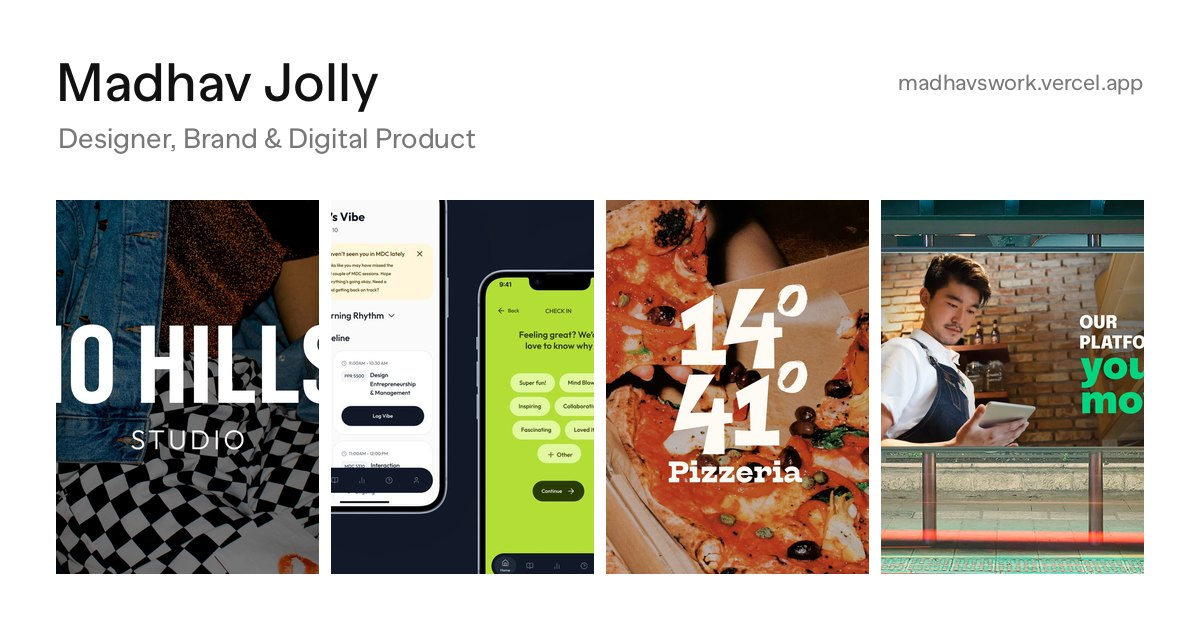
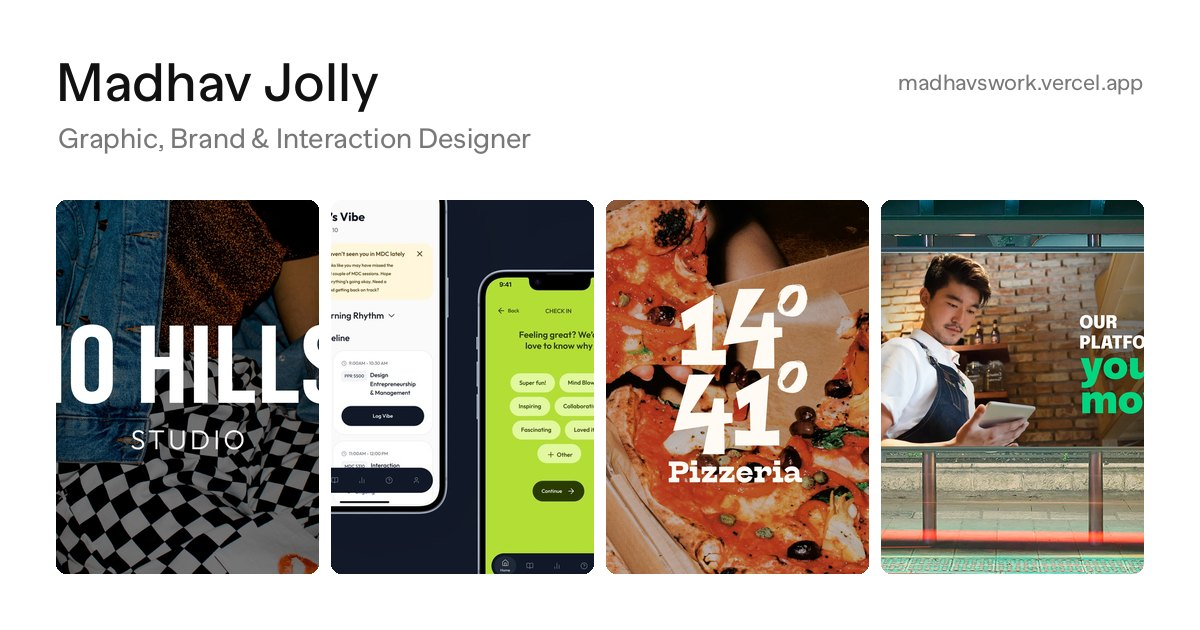
New intro and role, scope lines, honest credits, 10 Hills re-sequence
- Role: Graphic, Brand & Interaction Designer; intro says Melbourne only
- Shorter tile one-liners for 10 Hills, ClassPulse, 1441, Pine Labs
- One-line scope at the top of five case studies
- Pine Labs and Falcon credit the senior team for identity, colour, type and icons
- Brand-book copy rewritten on Rivona and 1441; 10 Hills clear-space and social text cut
- 10 Hills leads with campaign, tees and store; system slides follow
- Motion Graphics moved into Play
- Share image, page titles and description updated to the new role

Claude-Session: https://claude.ai/code/session_011t3iwqsU4Rvt9P7g58dLV8

Changed region(s): [[0.0308, 0.181, 0.4625, 0.2413]]

diff --git a/portfolio_final_3_2026.html b/portfolio_final_3_2026.html
@@ -4,21 +4,21 @@
 <meta charset="UTF-8">
 <base href="/">
 <meta name="viewport" content="width=device-width, initial-scale=1.0, viewport-fit=cover">
-<title>Madhav Jolly | Designer, Brand &amp; Digital Product</title>
-<meta name="description" content="Indian designer in Melbourne, working across brand and digital product. Identity first, then the system around it, with motion, 3D, and sound when the work needs more than a still.">
+<title>Madhav Jolly | Graphic, Brand &amp; Interaction Designer</title>
+<meta name="description" content="Graphic, brand and interaction designer in Melbourne. Identity first, then the system around it, with motion, 3D and sound when the work needs more than a still.">
 <link rel="canonical" href="https://madhavswork.vercel.app/">
 <meta property="og:type" content="website">
 <meta property="og:site_name" content="Madhav Jolly">
-<meta property="og:title" content="Madhav Jolly | Designer, Brand &amp; Digital Product">
-<meta property="og:description" content="Indian designer in Melbourne, working across brand and digital product. Identity first, then the system around it, with motion, 3D, and sound when the work needs more than a still.">
+<meta property="og:title" content="Madhav Jolly | Graphic, Brand &amp; Interaction Designer">
+<meta property="og:description" content="Graphic, brand and interaction designer in Melbourne. Identity first, then the system around it, with motion, 3D and sound when the work needs more than a still.">
 <meta property="og:url" content="https://madhavswork.vercel.app/">
 <meta property="og:image" content="https://madhavswork.vercel.app/assets/og-image.jpg">
 <meta property="og:image:width" content="1200">
 <meta property="og:image:height" content="630">
-<meta property="og:image:alt" content="Madhav Jolly, Designer, Brand and Digital Product, with selected work">
+<meta property="og:image:alt" content="Madhav Jolly, Graphic, Brand and Interaction Designer, with selected work">
 <meta name="twitter:card" content="summary_large_image">
-<meta name="twitter:title" content="Madhav Jolly | Designer, Brand &amp; Digital Product">
-<meta name="twitter:description" content="Indian designer in Melbourne, working across brand and digital product. Identity first, then the system around it, with motion, 3D, and sound when the work needs more than a still.">
+<meta name="twitter:title" content="Madhav Jolly | Graphic, Brand &amp; Interaction Designer">
+<meta name="twitter:description" content="Graphic, brand and interaction designer in Melbourne. Identity first, then the system around it, with motion, 3D and sound when the work needs more than a still.">
 <meta name="twitter:image" content="https://madhavswork.vercel.app/assets/og-image.jpg">
 <link rel="icon" href="/favicon.ico?v=2" sizes="any">
 <link rel="icon" type="image/png" sizes="32x32" href="/assets/icons/favicon-32.png?v=2">
@@ -363,6 +363,7 @@ body[data-page="project"] #page-project { display: block; }
   max-width: var(--measure);
 }
 .p-copy p:last-child { margin-bottom: 0; }
+.p-copy p.p-scope { color: var(--ink); font-weight: 500; }
 .p-meta {
   margin-top: 2px;
   font-weight: 400;
@@ -658,8 +659,8 @@ body[data-page="project"] #page-project { display: block; }
 
 <div id="page-home" class="page">
   <div class="intro">
-    <div class="role">Designer, Brand &amp; Digital Product</div>
-    <p>Designer from Mumbai → Melbourne, working across brand and digital product. Identity first, then the system around it, with motion, 3D and sound when the work needs more than a still.</p>
+    <div class="role">Graphic, Brand &amp; Interaction Designer</div>
+    <p>Based in Melbourne. Previously at The Works and Please See//, most recently an M.Des in Interaction Design at Monash.</p>
   </div>
   <div class="masonry" id="home-grid"></div>
   <a class="more" href="/all">All work</a>
@@ -787,23 +788,24 @@ body[data-page="project"] #page-project { display: block; }
 <script>
 const PROJECTS = [
   {
-    id:'pine-labs', name:'Pine Labs', tag:"India's payments giant, recut for the merchants who actually run on it.",
+    id:'pine-labs', name:'Pine Labs', tag:"India's payments giant, recut for the merchants who run on it.",
     category:'brand', sidebar:true,
     heroColor:'#0d2419', heroAccent:'#4fd89a', letter:'P',
     heroImage:'assets/projects/pine-labs/02-billboard.webp',
     thumbImage:'assets/projects/pine-labs/01-building.mp4',
     coverImage:'assets/projects/pine-labs/02-billboard.webp',
     eyebrow:'Brand Identity', title:'Pine Labs',
+    scopeLine:'Marketing, motion, emailers, print, packaging and illustrated collateral for a brand refresh. Junior designer at Please See//.',
     challenge:"Pine Labs had outgrown a look that disappeared among gradients. The job was to keep the heritage, then make it loud enough for entrepreneurs across India to recognise it as theirs, including on the POS machines that sit on counters nationwide.",
-    solution:"I was a junior on the refresh at Please See//, working on marketing, motion, emailers and packaging, and contributing to logo ideation, though the final mark isn't mine. The system had to hold at checkout, not only on a billboard.",
+    solution:"The identity, colour and icons came from the senior team. I carried the new system into everything around it, from emailers and motion to the employee welcome kit.",
     info:['See it live at <a href="https://www.pinelabs.com" target="_blank" rel="noopener">pinelabs.com</a>'],
-    credits:[{role:'Marketing, motion, emailers, packaging, logo ideation',name:'Madhav Jolly'},{role:'Agency',name:'Please See//'}],
-    year:'2022', client:'Pine Labs', agency:'Please See//', scope:'Marketing, motion, emailers, packaging, logo ideation', awards:'—',
+    credits:[{role:'Marketing, motion, emailers, print, packaging, illustrated collateral',name:'Madhav Jolly'},{role:'Agency',name:'Please See//'}],
+    year:'2022', client:'Pine Labs', agency:'Please See//', scope:'Marketing, motion, emailers, print, packaging, illustrated collateral', awards:'—',
     gallery:[
       { type:'image', src:'assets/projects/pine-labs/01-building.mp4', wide:true },
       { type:'image', src:'assets/projects/pine-labs/02-billboard.webp' },
       { type:'image', src:'assets/projects/pine-labs/03-pine-green.mp4' },
-      { type:'text', text:"I evolved the original Pine green into a high-contrast 'Pine teal', so the brand could own its heritage through a modern lens. Bolder colours and wide contrast let it stand out in a market full of gradients, while still scaling across every medium." },
+      { type:'text', text:"The refresh moved the original Pine green to a high-contrast 'Pine teal', so the brand could own its heritage through a modern lens. Bolder colours and wide contrast let it stand out in a market full of gradients, while still scaling across every medium." },
       { type:'image', src:'assets/projects/pine-labs/04-logo-grid.webp', wide:true },
       { type:'image', src:'assets/projects/pine-labs/05-subbrands.webp', wide:true, contain:true, ratio:'2800/1159' },
       { type:'text', text:'The arrow symbol acts as a container that heroes the entrepreneur and their business: always on the move, shaking things up and breaking new ground.' },
@@ -830,15 +832,16 @@ const PROJECTS = [
     ],
   },
   {
-    id:'ten-hills-studio', name:'10 Hills Studio', tag:'A Kolkata streetwear store, built to live on a cap, a window, and the street.',
+    id:'ten-hills-studio', name:'10 Hills Studio', tag:'A number and a hill, cut into one mark.',
     category:'brand', sidebar:true,
     heroColor:'#0c0c0c', heroAccent:'#f7f126', letter:'1',
     heroImage:'assets/projects/ten-hills-studio/01-hero.jpg',
     thumbImage:'assets/projects/ten-hills-studio/01-preview.jpg',
     coverImage:'assets/projects/ten-hills-studio/01-hero.jpg',
     eyebrow:'Brand Identity', title:'10 Hills Studio',
+    scopeLine:'Identity, packaging, merch, store and photography for a Kolkata streetwear shop. Freelance, solo.',
     challenge:'10 Hills was opening a sneaker and streetwear store in the middle of Kolkata. The identity had to hold a shop window, a hang tag, and a website, and still feel like a studio, not a template shop.',
-    solution:'Freelance, end to end, just me: identity, packaging, merch, store and photography. A number and a hill, cut into one mark. Black, white, grey, and a strike of yellow.',
+    solution:'A number and a hill, cut into one mark. Black, white, grey, and a strike of yellow.',
     info:[
       'See it live at <a href="https://10hillsstudio.com" target="_blank" rel="noopener">10hillsstudio.com</a>',
     ],
@@ -847,32 +850,26 @@ const PROJECTS = [
     colors:['#0c0c0c','#bec2c6','#ffffff','#f7f126','#1a1a1a','#0a0a0a'],
     labels:['Wordmark','Symbol','Type','Colour','Retail','Merch'],
     gallery:[
-      { type:'image', src:'assets/projects/ten-hills-studio/20-wordmark.jpg', wide:true, dark:true, ratio:'16/9' },
-      { type:'image', src:'assets/projects/ten-hills-studio/21-logo-lockups.jpg', wide:true, contain:true, light:true, ratio:'16/9' },
-      { type:'image', src:'assets/projects/ten-hills-studio/22-symbol-dark.jpg', wide:true, contain:true, light:true, ratio:'16/9' },
-      { type:'image', src:'assets/projects/ten-hills-studio/03-logo-bw.jpg', wide:true, ratio:'16/9' },
-      { type:'image', src:'assets/projects/ten-hills-studio/23-colour.jpg', wide:true, contain:true, light:true, ratio:'16/9' },
-      { type:'text', wide:true, text:'The mark is 10 and a hill in the same stroke. Sharp intervals in the type, a symbol that still reads at the size of a cap badge.' },
-      { type:'image', src:'assets/projects/ten-hills-studio/05-clear-space.jpg', wide:true, contain:true, light:true, ratio:'16/9' },
-      { type:'text', wide:true, text:'To keep the mark consistent, legible, and prominent, keep the area around it clear. Do not put type or objects in the clear space. Minimum preferred clear space is 1X, measured from the cap height of 10 HILLS.' },
-      { type:'image', src:'assets/projects/ten-hills-studio/07-type.jpg', wide:true, contain:true, light:true, ratio:'16/9' },
-      { type:'text', wide:true, text:'Three core fonts. Bebas Neue Bold for headlines. Baskerville, used sparingly, for subheads and accents. Source Sans for body copy, so longer text stays readable.' },
-      { type:'image', src:'assets/projects/ten-hills-studio/09-social.jpg', wide:true, contain:true, light:true, ratio:'16/9' },
-      { type:'text', wide:true, text:'Primary social icons sit in approved colours. Secondary icons can shift for seasonal campaigns and custom clothing launches.' },
-      { type:'text', wide:true, text:'The hang tag went through a few constructions. A two-sided rectangle. A die-cut triangle layered over the spec. Frosted vellum over a patterned back. A small triangle pinned to the corner. What shipped is the simplest: black wordmark on the front, collection, size, and a yellow QR on the back.' },
-      { type:'image', src:'assets/projects/ten-hills-studio/11-hangtags.jpg', wide:true, contain:true, light:true, ratio:'16/9' },
-      { type:'image', src:'assets/projects/ten-hills-studio/25-hangtags.jpg', dark:true, ratio:'4/5' },
-      { type:'image', src:'assets/projects/ten-hills-studio/15-cap.jpg', light:true, ratio:'4/5' },
-      { type:'text', wide:true, text:'Then it had to hold at arm’s length: tags, tees, a window. Same system, different distances.' },
+      { type:'image', src:'assets/projects/ten-hills-studio/19-campaign.jpg', wide:true },
       { type:'image', src:'assets/projects/ten-hills-studio/13-tee-chest.jpg', wide:true, dark:true },
       { type:'image', src:'assets/projects/ten-hills-studio/14-tee-back.jpg', wide:true },
-      { type:'image', src:'assets/projects/ten-hills-studio/19-campaign.jpg', wide:true },
-      { type:'image', src:'assets/projects/ten-hills-studio/32-campaign-green.jpg', ratio:'4/5' },
       { type:'text', wide:true, label:'Inside the store' },
       { type:'image-row', cols:2, images:[
         'assets/projects/ten-hills-studio/35-store-wall.jpg',
         'assets/projects/ten-hills-studio/36-store-floor.jpg',
       ]},
+      { type:'text', wide:true, text:'The mark is 10 and a hill in the same stroke. Sharp intervals in the type, a symbol that still reads at the size of a cap badge.' },
+      { type:'image', src:'assets/projects/ten-hills-studio/20-wordmark.jpg', wide:true, dark:true, ratio:'16/9' },
+      { type:'image', src:'assets/projects/ten-hills-studio/22-symbol-dark.jpg', wide:true, contain:true, light:true, ratio:'16/9' },
+      { type:'image', src:'assets/projects/ten-hills-studio/23-colour.jpg', wide:true, contain:true, light:true, ratio:'16/9' },
+      { type:'image', src:'assets/projects/ten-hills-studio/07-type.jpg', wide:true, contain:true, light:true, ratio:'16/9' },
+      { type:'text', wide:true, text:'Three core fonts. Bebas Neue Bold for headlines. Baskerville, used sparingly, for subheads and accents. Source Sans for body copy, so longer text stays readable.' },
+      { type:'text', wide:true, text:'The hang tag went through a few constructions. A two-sided rectangle. A die-cut triangle layered over the spec. Frosted vellum over a patterned back. A small triangle pinned to the corner. What shipped is the simplest: black wordmark on the front, collection, size, and a yellow QR on the back.' },
+      { type:'image', src:'assets/projects/ten-hills-studio/11-hangtags.jpg', wide:true, contain:true, light:true, ratio:'16/9' },
+      { type:'image', src:'assets/projects/ten-hills-studio/25-hangtags.jpg', dark:true, ratio:'4/5' },
+      { type:'image', src:'assets/projects/ten-hills-studio/15-cap.jpg', light:true, ratio:'4/5' },
+      { type:'text', wide:true, text:'Then it had to hold at arm’s length: tags, tees, a window. Same system, different distances.' },
+      { type:'image', src:'assets/projects/ten-hills-studio/32-campaign-green.jpg', ratio:'4/5' },
     ],
   },
   {
@@ -884,20 +881,21 @@ const PROJECTS = [
     coverImage:'assets/projects/falcon/00-preview.mp4',
     reelImage:'assets/projects/falcon/03-guidelines.jpg',
     eyebrow:'Brand Identity', title:'Falcon',
+    scopeLine:'Credit card, print, packaging and collateral for a fintech platform. Junior designer at Please See//.',
     challenge:"A payments platform for banks and FinTechs needed a mark as sharp as the product, not another soft gradient in a crowded category.",
-    solution:"I was a junior at Please See//, working across the system around the main logo. The credit card was the piece I owned, along with colour, icons, packaging and the pitch deck, all built around a three-dimensional F cut like a falcon's bill.",
+    solution:"The mark, colour, type and icon system came from the senior team. I applied the brand across print, packaging and collateral, and designed the credit card.",
     info:['See it live at <a href="https://www.falconfs.com" target="_blank" rel="noopener">falconfs.com</a>'],
-    credits:[{role:'Junior designer: credit card, packaging, icons, collateral',name:'Madhav Jolly'},{role:'Agency',name:'Please See//'}],
-    year:'2022', client:'Falcon', agency:'Please See//', scope:'Junior designer: credit card, packaging, icons, collateral', awards:'—',
+    credits:[{role:'Junior designer: credit card, print, packaging, collateral',name:'Madhav Jolly'},{role:'Agency',name:'Please See//'}],
+    year:'2022', client:'Falcon', agency:'Please See//', scope:'Junior designer: credit card, print, packaging, collateral', awards:'—',
     gallery:[
       { type:'text', text:"Falcon is a platform that lets FinTechs, banks, NBFCs and startups launch payment and lending products on open APIs. I worked on it at Please See// with founders Priyanka Kanwar and Prabhtej Bhatia." },
       { type:'image', src:'assets/projects/falcon/02-logo-3d.mp4' },
       { type:'image', src:'assets/projects/falcon/03-guidelines.jpg', wide:true, contain:true, light:true, ratio:'1920/1919' },
       { type:'text', text:'The colour palette was inspired by the limitless sky and the grey of a falcon\'s bill. A secondary palette complements the main brand colours, and gradients bring movement to the wider brand language.' },
       { type:'image', src:'assets/projects/falcon/04-colors.webp', wide:true, contain:true, light:true, ratio:'2800/2441' },
-      { type:'text', text:"Roobert is a monolinear geometric sans-serif. I picked it because its rounded-square forms in letters like 'g', 'a', 'r' and 't' echo the F symbol, while staying sharp and clean at the edges like the mark." },
+      { type:'text', text:"Roobert is a monolinear geometric sans-serif, chosen because its rounded-square forms in letters like 'g', 'a', 'r' and 't' echo the F symbol, while staying sharp and clean at the edges like the mark." },
       { type:'image', src:'assets/projects/falcon/05-typography.webp', wide:true, contain:true, dark:true, ratio:'2800/1313' },
-      { type:'text', text:'Icons were created by overlapping geometric shapes with sharp corners. Wherever possible, I turned the flat 2D icons into 3D product illustrations to make the language more dynamic.' },
+      { type:'text', text:'Icons are built from overlapping geometric shapes with sharp corners, and where possible turned into 3D product illustrations to make the language more dynamic.' },
       { type:'image', src:'assets/projects/falcon/06-icon-grid-spec.webp', wide:true, contain:true, dark:true, ratio:'2800/986' },
       { type:'image', src:'assets/projects/falcon/07-icon-set.webp', wide:true, contain:true, dark:true, ratio:'2800/1129' },
       { type:'image', src:'assets/projects/falcon/08-icon-anim-1.mp4', square:true, contain:true, dark:true },
@@ -956,6 +954,7 @@ const PROJECTS = [
     thumbImage:'assets/projects/class-pulse/listing-thumb.jpg',
     coverImage:'assets/projects/class-pulse/04-checkin.mp4',
     eyebrow:'UX / Product Design', title:'ClassPulse',
+    scopeLine:'Research, UX and UI for a student engagement platform. Monash M.Des team project, Higher Distinction.',
     challenge:'Student disengagement in higher education is often silent, gradual, and difficult to detect in real time. Most university systems focus on measurable outputs such as attendance, assignment submissions, and platform activity. These signals only show what students did, not how they are actually engaging with their learning.',
     solution:'ClassPulse was designed to address this visibility gap by shifting engagement from a passive set of metrics into a continuous, interpretable experience, enabling students to reflect on their own patterns while giving educators higher-level insights into how engagement changes over time.',
     info:[],
@@ -1000,13 +999,14 @@ const PROJECTS = [
     ],
   },
   {
-    id:'1441-pizzeria', name:'1441 Pizzeria', tag:'Neapolitan energy for a pizzeria that wanted to feel like the centre of the room.',
+    id:'1441-pizzeria', name:'1441 Pizzeria', tag:'Naples energy, built for a crowded counter.',
     category:'brand', sidebar:true,
     heroColor:'#02954C', heroAccent:'#FABA18', letter:'1',
     heroImage:'assets/projects/1441-pizzeria/01-hero.png',
     thumbImage:'assets/projects/1441-pizzeria/listing-thumb.jpg',
     coverImage:'assets/projects/1441-pizzeria/reel-cover.jpg',
     eyebrow:'Brand Identity', title:'1441 Pizzeria',
+    scopeLine:'Logo, storefront, pizza box, stickers and social for a Neapolitan pizzeria. At Please See//.',
     challenge:'1441 wanted to feel like the epicentre of action. Naples energy, not another polite pizza mark. The identity had to work on a box, a sticker, and a crowded counter.',
     solution:'I had a lot more autonomy here. I did the logo, the storefront type, the pizza box, social, and the system around them. Two red degree glyphs sit inside the name. Fun, loud, a little chaotic, built for a crowded counter.',
     info:['A rebrand for 1441 Pizzeria that treats Naples as an attitude, not a texture overlay.','I designed the logo, storefront, pizza box, and social, plus stickers, illustration, and the rest of the system.','See it live at <a href="https://www.1441pizzeria.com" target="_blank" rel="noopener">1441pizzeria.com</a>'],
@@ -1023,9 +1023,9 @@ const PROJECTS = [
       { type:'image', src:'assets/projects/1441-pizzeria/05-clearspace.png', wide:true, contain:true, light:true, ratio:'16/9' },
       { type:'image', src:'assets/projects/1441-pizzeria/06-colors.png', wide:true, contain:true, light:true, ratio:'16/9' },
       { type:'image', src:'assets/projects/1441-pizzeria/07-typography.png', wide:true, contain:true, light:true, ratio:'16/9' },
-      { type:'text', text:'Brangus was chosen for its bold, geometric letterforms that convey strength and modernity while remaining approachable. Its clean lines and distinctive character make it ideal for headings, signage, and branding elements, reinforcing 1441 Pizzeria\'s energetic and contemporary identity.' },
+      { type:'text', text:'Brangus for the loud bits: signage, boxes, headlines. Bold and geometric, still friendly.' },
       { type:'image', src:'assets/projects/1441-pizzeria/08-stickers.png', wide:true, contain:true, light:true },
-      { type:'text', text:'I developed a distinctive and refreshing illustration system for stickers and all brand collateral.' },
+      { type:'text', text:'A sticker and illustration system for the box, the counter and everything in between.' },
       { type:'image', src:'assets/projects/1441-pizzeria/09-packaging.png', wide:true },
       { type:'image', src:'assets/projects/1441-pizzeria/10-hand-slice.png', contain:true, ratio:'1200/1696' },
       { type:'video', src:'assets/projects/1441-pizzeria/11-motion.mp4', contain:true, ratio:'1400/784' },
@@ -1054,7 +1054,7 @@ const PROJECTS = [
       { type:'image', src:'assets/projects/rivona-naturals/01-hero.png', wide:true },
       { type:'image', src:'assets/projects/rivona-naturals/03-logo-detail.png', wide:true, contain:true, light:true, ratio:'2/1' },
       { type:'image', src:'assets/projects/rivona-naturals/02-typography.png', wide:true, contain:true, light:true, ratio:'2/1' },
-      { type:'text', wide:true, text:"The font was chosen for its clean, modern, and versatile character. Its variable weights allow for flexibility across headings, body text, and product packaging, creating a cohesive typographic system that feels approachable yet sophisticated. The typeface complements Rivona's natural, minimal aesthetic while maintaining clarity and readability across digital and print applications." },
+      { type:'text', wide:true, text:'One variable sans across packs, headings and web. Quiet enough to let the plants lead.' },
       { type:'image', src:'assets/projects/rivona-naturals/04-color-palette.mp4', wide:true, contain:true, light:true, ratio:'2/1' },
       { type:'text', wide:true, text:'A set of bespoke icons and illustrations was created to visually distinguish and complement each product.' },
       { type:'image', src:'assets/projects/rivona-naturals/05-illustrations.mp4', wide:true, contain:true, light:true, ratio:'2/1' },
@@ -1290,7 +1290,7 @@ const PROJECTS = [
   },
   {
     id:'motion-graphics', name:'Motion Graphics', tag:'Title sequences, loops, and motion experiments.',
-    category:'motion',
+    category:'motion', listed:false,
     heroColor:'#0c0a08', heroAccent:'#E8D44D', letter:'M',
     heroImage:'assets/projects/motion-graphics/20-fittr-logo.mp4',
     thumbImage:'assets/projects/motion-graphics/20-fittr-logo.mp4',
@@ -1575,7 +1575,7 @@ function tileHTML(p) {
     ? mediaTag(src, p.name)
     : `<div class="letter" style="background:${p.heroColor||'#111'};color:${p.heroAccent||'#fff'}">${p.letter||''}</div>`;
   const tagText = p.id === 'class-pulse'
-    ? 'A student engagement platform with a live view of how people are actually learning.'
+    ? 'Making silent disengagement visible.'
     : (p.tag || '');
   const tag = tagText ? `<div class="tile-tag">${tagText}</div>` : '';
   return `<a class="tile" href="/${p.id}"><div class="tile-media">${media}</div><div class="tile-name">${p.name}</div>${tag}<div class="tile-disc">${disc(p)}</div></a>`;
@@ -1597,6 +1597,10 @@ function renderGrids() {
     { src:'assets/projects/illustration/12-against-reason.jpg', title:'Against Reason' },
     { src:'assets/projects/illustration/13-radiant-energy.jpg', title:'Radiant Energy' },
     { src:'assets/projects/motion-graphics/20-fittr-logo.mp4', title:'Fittr logo' },
+    { src:'assets/projects/motion-graphics/40-blabel-logo.mp4', title:'B Label logo' },
+    { src:'assets/projects/motion-graphics/60-pine-labs-logo-pitch.mp4', title:'Pine Labs logo pitch, never used' },
+    { embed:'https://player.vimeo.com/video/394131523?autoplay=1&loop=1&muted=1&background=1&autopause=0&title=0&byline=0&portrait=0', title:'Go with the flow' },
+    { embed:'https://player.vimeo.com/video/393184043?autoplay=1&loop=1&muted=1&background=1&autopause=0&title=0&byline=0&portrait=0', title:'The rainbow' },
     { embed:'https://player.vimeo.com/video/394399503?autoplay=1&loop=1&muted=1&background=1&autopause=0&title=0&byline=0&portrait=0', title:'Way Too Much Coffee' },
     { embed:'https://player.vimeo.com/video/408367414?autoplay=1&loop=1&muted=1&background=1&autopause=0&title=0&byline=0&portrait=0', title:'VCR, 80s retro' },
     { embed:'https://player.vimeo.com/video/408367550?autoplay=1&loop=1&muted=1&background=1&autopause=0&title=0&byline=0&portrait=0', title:'VCR, Grid' },
@@ -1713,6 +1717,7 @@ function renderProject(id) {
       <div class="p-copy">
         <div class="p-title">${p.title || p.name}</div>
         <div class="p-disc">${disc(p)}</div>
+        ${p.scopeLine ? `<p class="p-scope">${p.scopeLine}</p>` : ''}
         ${paras}
       </div>
       <div class="p-meta">${meta}</div>
@@ -1726,7 +1731,7 @@ function renderProject(id) {
   `;
 }
 
-const SITE_TITLE = 'Madhav Jolly | Designer, Brand & Digital Product';
+const SITE_TITLE = 'Madhav Jolly | Graphic, Brand & Interaction Designer';
 const PAGE_TITLES = { all:'All work', play:'Play', about:'About', contact:'Contact' };
 const DEFAULT_DESC = (document.querySelector('meta[name="description"]') || {}).content || '';
 function setMeta(page, s) {
